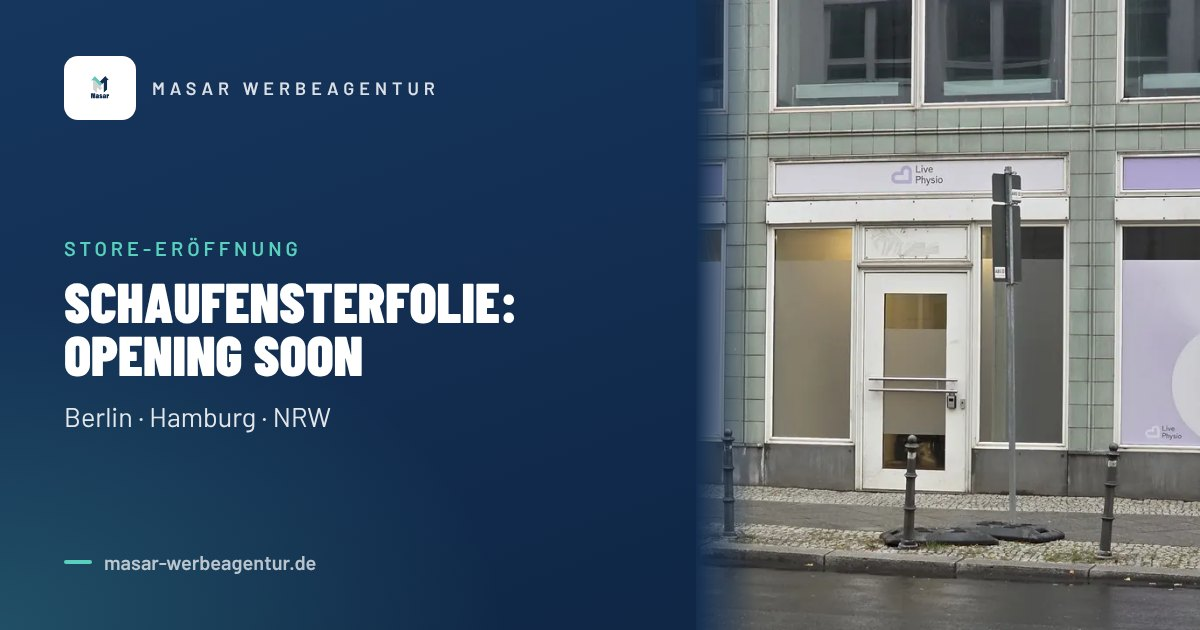
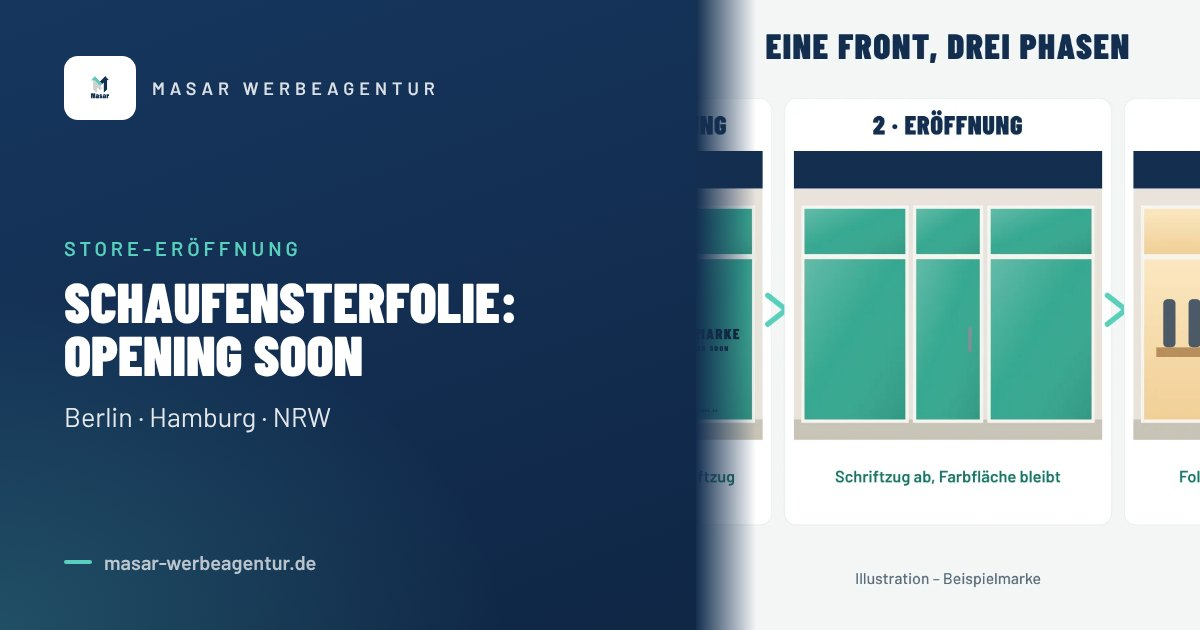
Store-Eroeffnungsseite: Referenzfotos durch eigene Illustrationen mit Beispielmarke ersetzt (Front vor der Eroeffnung, drei Phasen), neues Vorschaubild
Claude-Session: https://claude.ai/code/session_01NLKvp5K8FsMdqZ9HL9ChPx

diff --git a/schaufensterfolie-store-eroeffnung.html b/schaufensterfolie-store-eroeffnung.html
@@ -19,17 +19,17 @@
 <meta property="og:description" content="Schaufenster vor der Eröffnung vollflächig bekleben: farbige oder blickdichte Folie, Logo und „Opening Soon“. Montage und Entfernung in Berlin, Hamburg und NRW.">
 <meta property="og:url" content="https://masar-werbeagentur.de/schaufensterfolie-store-eroeffnung.html">
 <meta property="og:type" content="website">
-<meta property="og:image" content="https://masar-werbeagentur.de/og/schaufensterbeschriftung-berlin.jpg">
+<meta property="og:image" content="https://masar-werbeagentur.de/og/schaufensterfolie-store-eroeffnung.jpg">
 <meta property="og:image:width" content="1200">
 <meta property="og:image:height" content="630">
 <meta property="og:image:type" content="image/jpeg">
-<meta property="og:image:alt" content="Schaufensterbeschriftung mit Folie – Masar Werbeagentur">
+<meta property="og:image:alt" content="Schaufensterfolie: Opening Soon – Masar Werbeagentur">
 <meta property="og:locale" content="de_DE">
 <meta property="og:site_name" content="Masar Werbeagentur Berlin">
 <meta name="twitter:card" content="summary_large_image">
 <meta name="twitter:title" content="Schaufensterfolie zur Store-Eröffnung – Opening Soon">
 <meta name="twitter:description" content="Schaufenster vor der Eröffnung vollflächig bekleben: farbige oder blickdichte Folie, Logo und „Opening Soon“. Montage und Entfernung in Berlin, Hamburg und NRW.">
-<meta name="twitter:image" content="https://masar-werbeagentur.de/og/schaufensterbeschriftung-berlin.jpg">
+<meta name="twitter:image" content="https://masar-werbeagentur.de/og/schaufensterfolie-store-eroeffnung.jpg">
 <link rel="canonical" href="https://masar-werbeagentur.de/schaufensterfolie-store-eroeffnung.html">
 <link rel="alternate" hreflang="de" href="https://masar-werbeagentur.de/schaufensterfolie-store-eroeffnung.html">
 <link rel="alternate" hreflang="x-default" href="https://masar-werbeagentur.de/schaufensterfolie-store-eroeffnung.html">
@@ -596,7 +596,7 @@ body:has(.mob-nav.open) #stickyCta{display:none}
         </div>
       </div>
       <div class="hero-visual">
-        <img class="hero-shot" src="/referenzen/praxis-schaufenster-berlin-01-720.webp" srcset="/referenzen/praxis-schaufenster-berlin-01-720.webp 720w, /referenzen/praxis-schaufenster-berlin-01.webp 1200w" sizes="(max-width:900px) 340px, 360px" width="720" height="900" alt="Zwei Monteure bekleben die Schaufenster eines neuen Ladens vor der Eröffnung mit bedruckter Folie" fetchpriority="high" style="aspect-ratio:4/5;object-fit:cover;object-position:38% center">
+        <img class="hero-shot" src="/opening-soon-front.webp" srcset="/opening-soon-front-360.webp 360w, /opening-soon-front-540.webp 540w, /opening-soon-front-720.webp 720w, /opening-soon-front.webp 1080w" sizes="(max-width:900px) 340px, 360px" width="1080" height="1350" alt="Illustration: Ladenfront vor der Eröffnung – farbige Folie auf allen Scheiben, darauf Markenname, „Opening Soon“ und Webadresse" fetchpriority="high">
       </div>
     </div>
   </div>
@@ -649,12 +649,11 @@ body:has(.mob-nav.open) #stickyCta{display:none}
       </div>
     </div>
     <figure class="ideen-foto ideen-foto--breit">
-      <a href="/referenzen.html" style="display:block"><img src="/referenzen/praxis-schaufenster-berlin-02-720.webp" srcset="/referenzen/praxis-schaufenster-berlin-02-720.webp 720w, /referenzen/praxis-schaufenster-berlin-02.webp 1200w" sizes="(max-width:700px) 100vw, 500px" width="720" height="432" alt="Schaufensterfront vor der Eröffnung: bedruckte Folie mit Ankündigung auf allen Scheiben, Logo-Blenden darüber" loading="lazy"></a>
+      <img src="/opening-soon-phasen-720.webp" srcset="/opening-soon-phasen-720.webp 720w, /opening-soon-phasen.webp 1600w" sizes="(max-width:700px) 100vw, 500px" width="720" height="432" alt="Illustration in drei Schritten: vor der Eröffnung Farbfläche mit Logo und Schriftzug, zur Eröffnung nur noch die Farbfläche, danach freies Glas" loading="lazy">
       <figcaption>
-        <span class="eyebrow" style="margin-bottom:.6rem">Aus unserer Arbeit</span>
-        <strong>Ankündigung auf der ganzen Front</strong>
-        Bedruckte Folie auf allen Scheiben, Logo-Blenden darüber – so stand diese Front in Berlin in den Wochen vor der Eröffnung. Zur Eröffnung haben wir die Ankündigung abgenommen und die dauerhafte Folierung angebracht.
-        <a href="/referenzen.html" style="display:block;margin-top:.8rem;color:var(--teal-ink);font-weight:700">Weitere Referenzen ansehen →</a>
+        <span class="eyebrow" style="margin-bottom:.6rem">So läuft es</span>
+        <strong>Eine Front, drei Phasen</strong>
+        Vor der Eröffnung trägt die Front Ihre Farbe, Ihr Logo und den Schriftzug. Am Eröffnungstag nehmen wir die Schrift ab, die Farbfläche kann bleiben. Später entfernen wir auch sie – das Glas ist wieder frei. Die Abbildung ist eine Illustration mit Beispielmarke.
       </figcaption>
     </figure>
   </div>

diff --git a/tools/folien/store_eroeffnung_bilder.py b/tools/folien/store_eroeffnung_bilder.py
@@ -1,0 +1,79 @@
+"""Illustrationen für schaufensterfolie-store-eroeffnung.html (neutrale Beispielmarke, keine echten Projekte).
+Schreibt hero.html und phasen.html ins aktuelle Verzeichnis; mit Playwright als 1080×1350 bzw. 1600×960 fotografieren und als
+opening-soon-front(.webp, -720, -540, -360) und opening-soon-phasen(.webp, -720) im Wurzelverzeichnis ablegen.
+Ersetzen, sobald echte Projektfotos mit Erlaubnis des Kunden vorliegen."""
+# Illustrationen für die Seite "Schaufensterfolie zur Store-Eröffnung" (keine echten Projekte, neutrale Beispielmarke)
+FONT="font-family:'Barlow Condensed','Barlow',Arial,sans-serif"
+def front(x,y,w,h,phase,label=True,scale=1.0):
+    """Ladenfront: 2 Schaufenster + Tür, Oberlichter. phase: 'bau' (blickdicht/Ankündigung), 'soon' (Farbe+Schrift), 'offen' (Farbe ohne Schrift), 'frei' (Glas frei)"""
+    g=[]; pad=w*0.035; top=h*0.20; base=h*0.07
+    g.append(f'<rect x="{x}" y="{y}" width="{w}" height="{h}" fill="#e9e4dc"/>')                       # Fassade
+    g.append(f'<rect x="{x}" y="{y}" width="{w}" height="{h*0.13}" fill="#132e50"/>')                    # Blende oben
+    g.append(f'<rect x="{x}" y="{y+h-base}" width="{w}" height="{base}" fill="#c9c3b8"/>')              # Sockel
+    ww=(w-4*pad)*0.38; dw=(w-4*pad)*0.24; gy=y+top; gh=h-top-base; ol=gh*0.24
+    xs=[x+pad, x+2*pad+ww, x+3*pad+ww+dw]; ws=[ww,dw,ww]
+    for i,(px,pw) in enumerate(zip(xs,ws)):
+        tuer = i==1
+        for (py,ph,ober) in ((gy,ol-8,True),(gy+ol,gh-ol,False)):
+            g.append(f'<rect x="{px-5}" y="{py-5}" width="{pw+10}" height="{ph+10}" fill="#f6f4ef"/>')  # Rahmen
+            innen = '#f3d9a8' if phase!='bau' else '#d9d4c8'
+            g.append(f'<rect x="{px}" y="{py}" width="{pw}" height="{ph}" fill="url(#innen)"/>' if phase in('frei',) else f'<rect x="{px}" y="{py}" width="{pw}" height="{ph}" fill="{innen}"/>')
+            if phase=='frei':
+                # Blick in den Laden
+                if not ober:
+                    g.append(f'<rect x="{px+pw*0.12}" y="{py+ph*0.55}" width="{pw*0.76}" height="{ph*0.06}" fill="#b98f5a"/>')
+                    for k in range(3 if not tuer else 1):
+                        cx=px+pw*(0.25+0.25*k) if not tuer else px+pw*0.5
+                        g.append(f'<rect x="{cx-pw*0.06}" y="{py+ph*0.25}" width="{pw*0.12}" height="{ph*0.30}" rx="6" fill="#132e50" opacity=".75"/>')
+            elif phase=='bau':
+                g.append(f'<rect x="{px}" y="{py}" width="{pw}" height="{ph}" fill="#132e50"/>')
+            else:
+                g.append(f'<rect x="{px}" y="{py}" width="{pw}" height="{ph}" fill="#17a08d" opacity=".86"/>')
+                g.append(f'<rect x="{px}" y="{py}" width="{pw}" height="{ph}" fill="url(#glanz)"/>')
+            if tuer and not ober:
+                g.append(f'<rect x="{px+pw*0.82}" y="{py+ph*0.42}" width="{pw*0.05}" height="{ph*0.16}" rx="3" fill="#8a8f96"/>')
+        # Beschriftung
+        cy=gy+ol+(gh-ol)*0.50; cx=px+pw/2
+        if phase in('soon','bau') and not tuer:
+            col='#0d2238' if phase=='soon' else '#ffffff'
+            g.append(f'<text x="{cx}" y="{cy}" text-anchor="middle" style="{FONT};font-weight:800;font-size:{pw*0.150*scale}px;letter-spacing:{pw*0.012}px" fill="{col}">IHRE MARKE</text>')
+            g.append(f'<text x="{cx}" y="{cy+pw*0.115}" text-anchor="middle" style="{FONT};font-weight:600;font-size:{pw*0.074*scale}px;letter-spacing:{pw*0.014}px" fill="{col}">OPENING SOON</text>')
+            g.append(f'<text x="{cx}" y="{gy+gh-pw*0.07}" text-anchor="middle" style="{FONT};font-weight:500;font-size:{pw*0.040*scale}px;letter-spacing:{pw*0.010}px" fill="{col}" opacity=".9">IHREMARKE.DE</text>')
+        if phase in('soon','bau') and tuer:
+            col='#0d2238' if phase=='soon' else '#ffffff'
+            r=pw*0.16
+            g.append(f'<circle cx="{cx}" cy="{cy-r*0.4}" r="{r}" fill="none" stroke="{col}" stroke-width="{r*0.16}"/>')
+            g.append(f'<path d="M{cx-r*0.45} {cy-r*0.4} l{r*0.32} {r*0.34} l{r*0.6} -{r*0.72}" fill="none" stroke="{col}" stroke-width="{r*0.16}" stroke-linecap="round" stroke-linejoin="round"/>')
+        if phase=='offen' and not tuer:
+            pass
+    return '\n'.join(g)
+DEFS='''<defs>
+<linearGradient id="glanz" x1="0" y1="0" x2="1" y2="1"><stop offset="0" stop-color="#fff" stop-opacity=".22"/><stop offset=".45" stop-color="#fff" stop-opacity="0"/><stop offset="1" stop-color="#000" stop-opacity=".10"/></linearGradient>
+<linearGradient id="innen" x1="0" y1="0" x2="0" y2="1"><stop offset="0" stop-color="#fbe7c2"/><stop offset="1" stop-color="#f1cf96"/></linearGradient>
+<linearGradient id="himmel" x1="0" y1="0" x2="0" y2="1"><stop offset="0" stop-color="#132e50"/><stop offset="1" stop-color="#1d4a63"/></linearGradient>
+</defs>'''
+def seite(svg,w,h): return f'<html><head><style>@font-face{{font-family:"Barlow Condensed";font-weight:800;src:url("file:///home/user/Masar26/fonts/barlow-condensed-black.woff2")}}@font-face{{font-family:"Barlow";font-weight:500;src:url("file:///home/user/Masar26/fonts/barlow-medium.woff2")}}@font-face{{font-family:"Barlow";font-weight:600;src:url("file:///home/user/Masar26/fonts/barlow-semibold.woff2")}}html,body{{margin:0}}</style></head><body><svg xmlns="http://www.w3.org/2000/svg" width="{w}" height="{h}" viewBox="0 0 {w} {h}">{DEFS}{svg}</svg></body></html>'
+# 1) Hero 1080x1350
+W,H=1080,1350
+s=f'<rect width="{W}" height="{H}" fill="url(#himmel)"/>'
+s+=f'<rect x="0" y="{H-210}" width="{W}" height="210" fill="#2b3f52"/><rect x="0" y="{H-210}" width="{W}" height="14" fill="#3b566c"/>'
+s+=front(60,300,960,850,'soon')
+s+=f'<text x="{W/2}" y="150" text-anchor="middle" style="{FONT};font-weight:800;font-size:64px;letter-spacing:3px" fill="#58d0bd">VOR DER ERÖFFNUNG</text>'
+s+=f'<text x="{W/2}" y="215" text-anchor="middle" style="font-family:Barlow,Arial,sans-serif;font-weight:500;font-size:30px" fill="#d8e6ee">Farbige Folie innen · Logo und Schrift außen</text>'
+s+=f'<text x="{W/2}" y="{H-70}" text-anchor="middle" style="font-family:Barlow,Arial,sans-serif;font-weight:500;font-size:24px" fill="#9fb4c2">Illustration – Beispielmarke</text>'
+open('hero.html','w').write(seite(s,W,H))
+# 2) Phasen 1600x960
+W,H=1600,960
+s=f'<rect width="{W}" height="{H}" fill="#f4f7f7"/>'
+titel=[('1 · Vor der Eröffnung','Farbfläche mit Logo und Schriftzug','soon'),('2 · Eröffnung','Schriftzug ab, Farbfläche bleibt','offen'),('3 · Danach','Folie entfernt, Glas wieder frei','frei')]
+bw=470; gap=(W-3*bw)/4
+for i,(t,u,ph) in enumerate(titel):
+    x=gap+i*(bw+gap)
+    s+=f'<rect x="{x-14}" y="150" width="{bw+28}" height="650" rx="18" fill="#fff" stroke="#dfe7ea"/>'
+    s+=front(x,230,bw,440,ph)
+    s+=f'<text x="{x+bw/2}" y="205" text-anchor="middle" style="{FONT};font-weight:800;font-size:40px;letter-spacing:1px" fill="#132e50">{t.upper()}</text>'
+    s+=f'<text x="{x+bw/2}" y="735" text-anchor="middle" style="font-family:Barlow,Arial,sans-serif;font-weight:600;font-size:25px" fill="#177567">{u}</text>'
+    if i<2: s+=f'<path d="M{x+bw+gap*0.5-16} 450 l28 22 l-28 22" fill="none" stroke="#58d0bd" stroke-width="8" stroke-linecap="round" stroke-linejoin="round"/>'
+s+=f'<text x="{W/2}" y="90" text-anchor="middle" style="{FONT};font-weight:800;font-size:54px;letter-spacing:2px" fill="#132e50">EINE FRONT, DREI PHASEN</text>'
+s+=f'<text x="{W/2}" y="890" text-anchor="middle" style="font-family:Barlow,Arial,sans-serif;font-weight:500;font-size:24px" fill="#5b6b7a">Illustration – Beispielmarke</text>'
+open('phasen.html','w').write(seite(s,W,H))

diff --git a/tools/folien/store_eroeffnung_page.py b/tools/folien/store_eroeffnung_page.py
@@ -183,7 +183,7 @@ def main():
         </div>
       </div>
       <div class="hero-visual">
-        <img class="hero-shot" src="/referenzen/praxis-schaufenster-berlin-01-720.webp" srcset="/referenzen/praxis-schaufenster-berlin-01-720.webp 720w, /referenzen/praxis-schaufenster-berlin-01.webp 1200w" sizes="(max-width:900px) 340px, 360px" width="720" height="900" alt="Zwei Monteure bekleben die Schaufenster eines neuen Ladens vor der Eröffnung mit bedruckter Folie" fetchpriority="high" style="aspect-ratio:4/5;object-fit:cover;object-position:38% center">
+        <img class="hero-shot" src="/opening-soon-front.webp" srcset="/opening-soon-front-360.webp 360w, /opening-soon-front-540.webp 540w, /opening-soon-front-720.webp 720w, /opening-soon-front.webp 1080w" sizes="(max-width:900px) 340px, 360px" width="1080" height="1350" alt="Illustration: Ladenfront vor der Eröffnung – farbige Folie auf allen Scheiben, darauf Markenname, „Opening Soon“ und Webadresse" fetchpriority="high">
       </div>
     </div>
   </div>
@@ -200,12 +200,11 @@ def main():
     <div class="svc-grid" role="list">{karten}
     </div>
     <figure class="ideen-foto ideen-foto--breit">
-      <a href="/referenzen.html" style="display:block"><img src="/referenzen/praxis-schaufenster-berlin-02-720.webp" srcset="/referenzen/praxis-schaufenster-berlin-02-720.webp 720w, /referenzen/praxis-schaufenster-berlin-02.webp 1200w" sizes="(max-width:700px) 100vw, 500px" width="720" height="432" alt="Schaufensterfront vor der Eröffnung: bedruckte Folie mit Ankündigung auf allen Scheiben, Logo-Blenden darüber" loading="lazy"></a>
+      <img src="/opening-soon-phasen-720.webp" srcset="/opening-soon-phasen-720.webp 720w, /opening-soon-phasen.webp 1600w" sizes="(max-width:700px) 100vw, 500px" width="720" height="432" alt="Illustration in drei Schritten: vor der Eröffnung Farbfläche mit Logo und Schriftzug, zur Eröffnung nur noch die Farbfläche, danach freies Glas" loading="lazy">
       <figcaption>
-        <span class="eyebrow" style="margin-bottom:.6rem">Aus unserer Arbeit</span>
-        <strong>Ankündigung auf der ganzen Front</strong>
-        Bedruckte Folie auf allen Scheiben, Logo-Blenden darüber – so stand diese Front in Berlin in den Wochen vor der Eröffnung. Zur Eröffnung haben wir die Ankündigung abgenommen und die dauerhafte Folierung angebracht.
-        <a href="/referenzen.html" style="display:block;margin-top:.8rem;color:var(--teal-ink);font-weight:700">Weitere Referenzen ansehen →</a>
+        <span class="eyebrow" style="margin-bottom:.6rem">So läuft es</span>
+        <strong>Eine Front, drei Phasen</strong>
+        Vor der Eröffnung trägt die Front Ihre Farbe, Ihr Logo und den Schriftzug. Am Eröffnungstag nehmen wir die Schrift ab, die Farbfläche kann bleiben. Später entfernen wir auch sie – das Glas ist wieder frei. Die Abbildung ist eine Illustration mit Beispielmarke.
       </figcaption>
     </figure>
   </div>

diff --git a/CLAUDE.md b/CLAUDE.md
@@ -154,7 +154,9 @@ solche Festlegung im Bericht nennen.
 - Neue Seite (22.11.2026, Vollmacht; Inhaber: „Leute ansprechen, die so eine Leistung suchen“): `schaufensterfolie-store-eroeffnung.html` –
   Schaufensterfolie vor der Store-Eröffnung („Opening Soon“) für Marken, Filialisten, Visual Merchandising, Ladenbau; mit englischem Abschnitt
   (`#english`). Generator `tools/folien/store_eroeffnung_page.py` (Vorlage Saisonseite, in `build_all.py`). Keine neuen Preise (nur Listenpreise
-  Aktionsfolie/Beschriftung), keine Kundennamen; Projektfotos Hamburg erst nach Erlaubnis des Kunden zeigen. Nicht in der Navigation (nur
+  Aktionsfolie/Beschriftung), keine Kundennamen. Bilder (Inhaber, 22.11.2026): **keine echten Fotos**, nur eigene Illustrationen mit Beispielmarke
+  (`opening-soon-front*.webp`, `opening-soon-phasen*.webp`, erzeugt mit `tools/folien/store_eroeffnung_bilder.py`) – echte Projektfotos erst einsetzen,
+  wenn der Kunde zugestimmt und der Inhaber sie geschickt hat. Nicht in der Navigation (nur
   Kontextlinks, Sitemap, llms.txt).
 
 ## Offen

diff --git a/docs/marketing-log.md b/docs/marketing-log.md
@@ -81,3 +81,4 @@
 ## 22.11.2026 (mit dem Inhaber)
 - Neue Zielgruppen-Seite `schaufensterfolie-store-eroeffnung.html` („Schaufensterfolie zur Store-Eröffnung – Opening Soon“): für Marken, Filialisten, Visual Merchandising und Ladenbau; Leistung, Ablauf, Checkliste „Was wir vorab brauchen“, englischer Abschnitt für internationale Marken, 7 FAQ (FAQPage), Service-Schema, Vorschaubild. Generator `tools/folien/store_eroeffnung_page.py`.
 - Verlinkt aus Hinweis-Kästen auf Schaufensterbeschriftung Berlin, Saisonseite, Werbeagentur Hamburg und NRW sowie aus der FAQ „Opening Soon“; eingetragen in sitemap.xml und llms.txt. Nicht in der Navigation.
+- Bilder der neuen Seite auf Wunsch des Inhabers ersetzt: statt Referenzfotos zwei eigene Illustrationen mit Beispielmarke (Front vor der Eröffnung; „Eine Front, drei Phasen“), auch im Vorschaubild. Echte Projektfotos folgen erst nach Zustimmung des Kunden.
